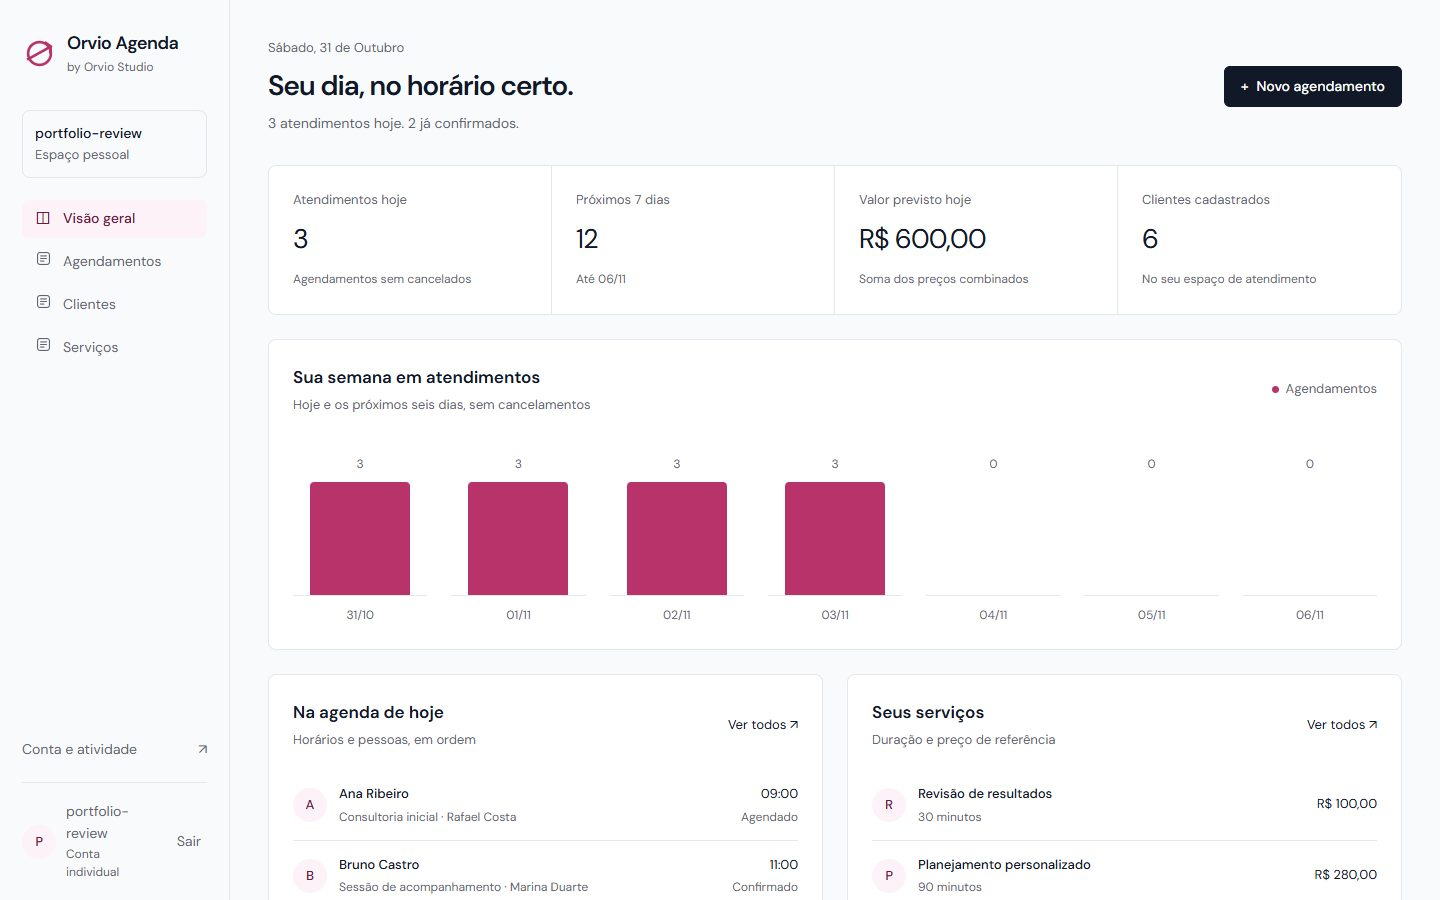
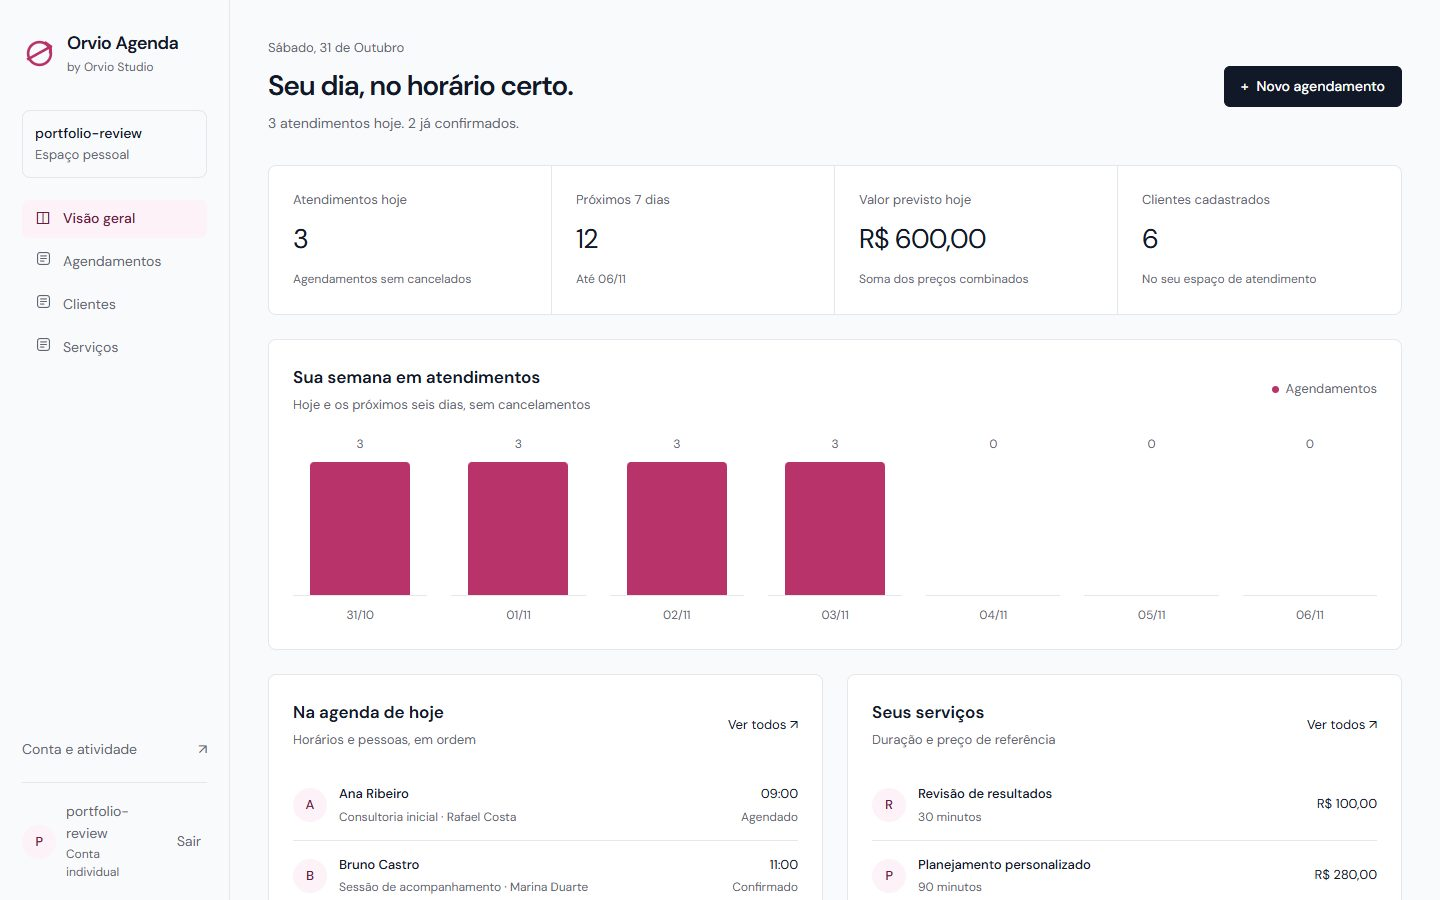
Harden administrative ownership and production defaults; document validation

diff --git a/workspace/admin.py b/workspace/admin.py
@@ -1,7 +1,38 @@
 from django.contrib import admin
 from .domain import REGISTRY
+from .forms import form_for
 from .models import Event
+
+
+class OwnedAdmin(admin.ModelAdmin):
+    """Assign ownership on creation and scope staff views and relation choices."""
+    def get_queryset(self, request):
+        queryset = super().get_queryset(request)
+        return queryset if request.user.is_superuser else queryset.filter(owner=request.user)
+
+    def get_form(self, request, obj=None, **kwargs):
+        owner = obj.owner if obj else request.user
+        base = form_for(self.model)
+
+        class AdminForm(base):
+            def __init__(self, *args, **form_kwargs):
+                super().__init__(*args, user=owner, **form_kwargs)
+
+        return AdminForm
+
+
+@admin.register(Event)
+class EventAdmin(OwnedAdmin):
+    list_display = ('description', 'owner', 'created_at')
+    readonly_fields = ('description', 'owner', 'created_at')
+
+    def has_add_permission(self, request):
+        return False
+
+    def has_change_permission(self, request, obj=None):
+        return False
+
+
 for item in REGISTRY.values():
-    admin.site.register(item['model'])
-admin.site.register(Event)
+    admin.site.register(item['model'], OwnedAdmin)
 admin.site.site_header = 'Orvio Studio · Administração'

diff --git a/workspace/tests.py b/workspace/tests.py
@@ -138,6 +138,20 @@ class WorkspaceTests:
             self.client.post('/login/',{'username':'absent','password':'wrong'})
         self.assertEqual(self.client.post('/login/',{'username':'absent','password':'wrong'}).status_code,429)
 
+    def test_admin_forms_have_owner_and_scoped_relations(self):
+        from django.contrib import admin
+        from django.test import RequestFactory
+        superuser = get_user_model().objects.create_superuser('admin-review', password='Admin-test-password-26', email='admin@example.com')
+        request = RequestFactory().get('/admin/')
+        request.user = superuser
+        for config in REGISTRY.values():
+            model_admin = admin.site._registry[config['model']]
+            form = model_admin.get_form(request)()
+            self.assertEqual(form.instance.owner, superuser)
+            for field in form.fields.values():
+                if hasattr(field, 'queryset') and field.queryset is not None:
+                    self.assertFalse(field.queryset.exclude(owner=superuser).exists())
+
     def test_health_checks_database(self):
         self.assertEqual(self.client.get('/health/').json(),{'status':'ok'})
 

diff --git a/docs/validation.md b/docs/validation.md
@@ -3,7 +3,7 @@
 ## Evidência local
 
 - Python 3.12.16, Django 5.2.18, Windows 11 x64.
-- 25 testes automatizados aprovados em SQLite: autenticação, CSRF, isolamento entre contas, formulários, exportação, cálculos e regras do domínio.
+- 26 testes automatizados aprovados em SQLite: autenticação, CSRF, isolamento entre contas, formulários, exportação, cálculos e regras do domínio.
 - Migrações aplicadas e verificação de alterações de modelo sem pendências.
 - Interface renderizada pelo Django e inspecionada em Chromium a 1440, 768 e 390 px; capturas em `screenshots/`.
 - Fluxo real no navegador: login e cadastro de oportunidade (CRM); rejeição de conflito e salvamento de horário livre (Agenda); lançamento com centavos (Finance). Navegação recolhível verificada.
@@ -11,7 +11,7 @@
 
 ## Cobertura e limites
 
-O workflow em GitHub Actions executa a suíte em SQLite e PostgreSQL 17. O ambiente local estava com o Docker aguardando reinício do Windows; o teste de contêiner local não foi executado. Conferir a execução do workflow do commit atual para evidência de PostgreSQL e ambiente Linux.
+O workflow em GitHub Actions executa a suíte em SQLite e PostgreSQL 17. O ambiente local estava com o Docker aguardando reinício do Windows; o teste de contêiner local não foi executado. A execução inicial do workflow passou em SQLite e PostgreSQL 17 no Ubuntu. Consulte o badge do README para o resultado do commit atual.
 
 O inspetor visual não encontrou falhas bloqueantes após os ajustes. Avisos estéticos de espaço de gráfico e alturas diferentes de painéis foram revisados: os painéis têm quantidades reais diferentes e mantêm sua altura pelo conteúdo, sem linhas fictícias para preencher.
 

diff --git a/README.md b/README.md
@@ -1,5 +1,7 @@
 # Orvio Agenda
 
+[![Quality](https://github.com/orviostudio21/orvio-agenda/actions/workflows/ci.yml/badge.svg)](https://github.com/orviostudio21/orvio-agenda/actions/workflows/ci.yml)
+
 Um dia bem organizado começa aqui. Clientes, serviços e uma agenda que respeita o tempo de cada profissional.
 
 Uma aplicação completa da [Orvio Studio](https://github.com/orviostudio21), com backend Django, banco relacional, autenticação e interface responsiva em português.
